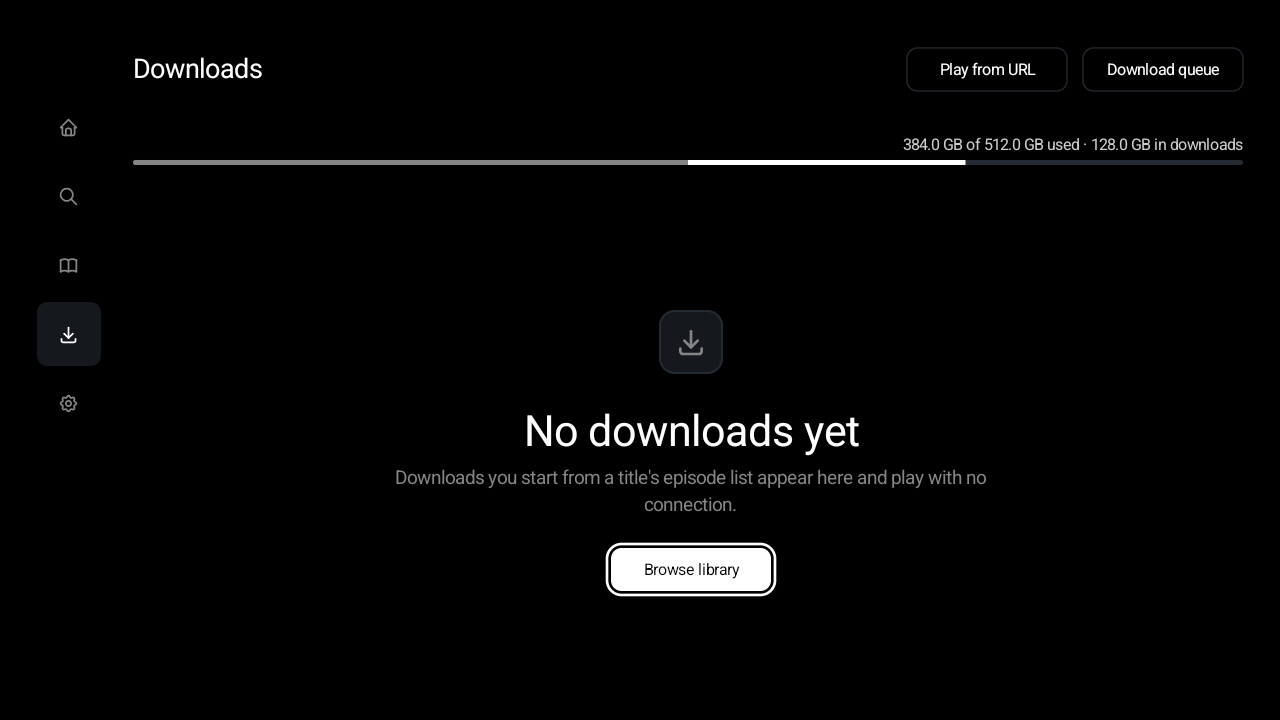
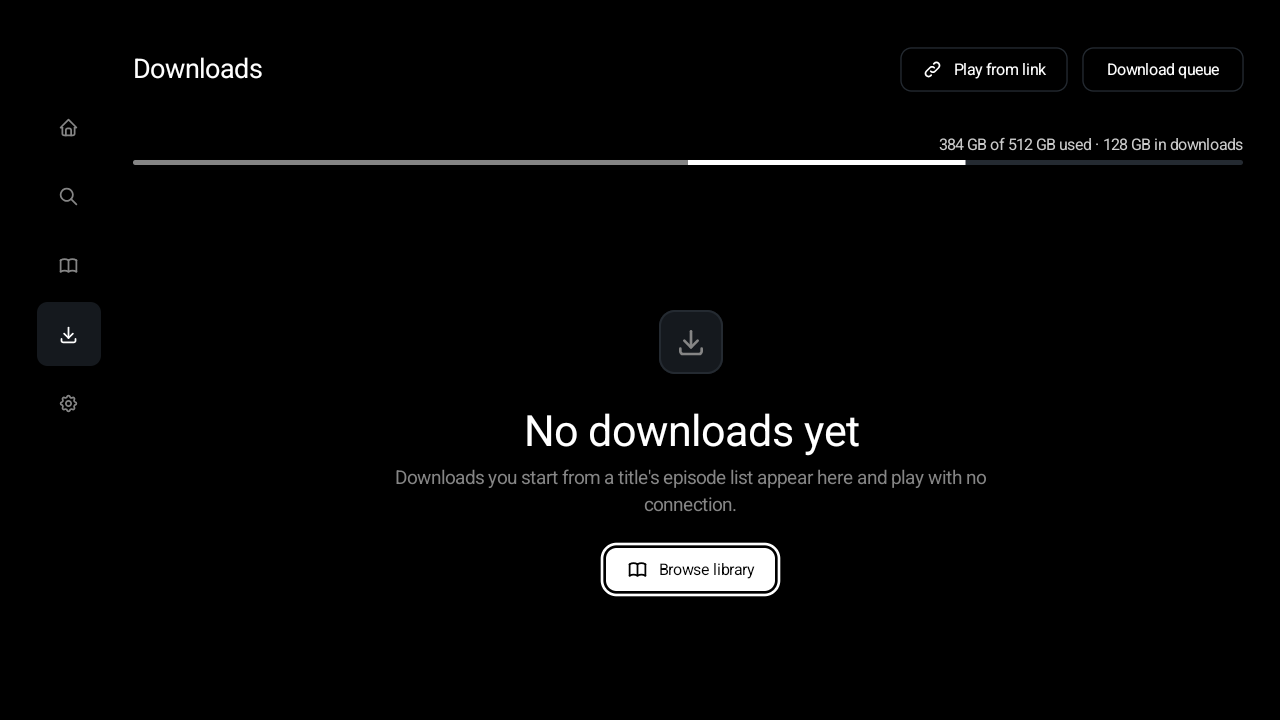
Q14: DS-16's glyphs, and the references re-recorded after design review
Link, Library and Retry on the buttons DS-16's table names; queue and Free up space stay
text. 10 references, each looked at against git, 3 of them new: loading, the failed read
and a scrolled list.

Claude-Session: https://claude.ai/code/session_01NDcBTvDyrDnXVRG39aExwA

Changed region(s): [[0.4688, 0.7639, 0.625, 0.825], [0.6875, 0.1833, 0.875, 0.2139], [0.7188, 0.0917, 0.8125, 0.1222]]

diff --git a/feature/downloads/src/commonMain/kotlin/com/lagradost/cloudstream4/feature/downloads/tv/DownloadsScreenTv.kt b/feature/downloads/src/commonMain/kotlin/com/lagradost/cloudstream4/feature/downloads/tv/DownloadsScreenTv.kt
@@ -275,6 +275,7 @@ private fun DownloadsChromeRow(
             buttonsOnTop -> {
                 GhostTextButton(
                     label = stringResource(Res.string.downloads_play_from_link),
+                    icon = CloudStreamIcons.Link,
                     onClick = { onAction(DownloadsAction.PlayFromUrlRequested) },
                     modifier = Modifier.downloadsStop(focus.playFromUrl, memory),
                 )
@@ -483,6 +484,7 @@ private fun DownloadsBody(
                 body = stringResource(Res.string.downloads_empty_body),
                 action = StateAction(
                     label = stringResource(Res.string.downloads_browse_library),
+                    icon = CloudStreamIcons.Library,
                     onActivate = { onAction(DownloadsAction.LibraryRequested) },
                 ),
             ),
@@ -497,6 +499,7 @@ private fun DownloadsBody(
                 body = stringResource(Res.string.downloads_load_failed_body),
                 action = StateAction(
                     label = stringResource(Res.string.player_source_retry),
+                    icon = CloudStreamIcons.Retry,
                     onActivate = {
                         // Before the button goes with its state. The stop then follows the layout change above.
                         focus.playFromUrl.requestFocusIfAttached()

diff --git a/feature/downloads/src/commonMain/kotlin/com/lagradost/cloudstream4/feature/downloads/tv/DownloadRows.kt b/feature/downloads/src/commonMain/kotlin/com/lagradost/cloudstream4/feature/downloads/tv/DownloadRows.kt
@@ -182,6 +182,7 @@ private fun DownloadTitleRow(
         if (verb != null) {
             GhostTextButton(
                 label = verb,
+                icon = if (title.state == DownloadTitleState.Failed) CloudStreamIcons.Retry else CloudStreamIcons.Play,
                 onClick = {
                     // Before the button goes with the state it answers.
                     rowFocus.requestFocusIfAttached()

diff --git a/docs/tasks/kmp.md b/docs/tasks/kmp.md
@@ -3819,6 +3819,8 @@ one included. **Open local file** was already hidden on TV, so nothing is lost. 
 **Strings:** 12 new keys in all 62 directories and 3 formats with no words in the default one, all machine translated and not reviewed by a native speaker; `qt` uses only words from its own file. `ti`, `ckb`, `mt`, `so`, `or`, `my` and `am` are the least sure, `apc` and `ars` are
 dialect approximations, and `so`'s word for library and storage is the same. Fourteen locales read the legend as `X / Y used` to keep the arguments in order. Twelfth move of the oracle baseline. Reused keys keep the directories they had.
 
+**Glyphs** follow `DS-16`: `Link` on the top row's Play from link, `Library` on Browse library, `Retry` on both Retries, `Play` on Resume. Queue and Free up space stay text-only, as its table says, and a `Chip` has no glyph, so the band's chips have none.
+
 **Loading** shows six skeleton rows at the row's geometry with an undivided meter. The board has the meter running on its own, but the source answers with both at once, so the storage figures do not arrive first.
 
 **Published API:** `app/api/classes-jar.api` +127 lines, 0 removed: 15 `R$string` fields and the new `cloudstream4.download` classes.
@@ -3840,6 +3842,8 @@ Temporary changes, all reverted. One run on `:feature:downloads`, 13 of 32 red, 
 Screenshots are 1280x720, recorded on `Television_720p`. With `Television_720p_2`, the cases the changes did not touch compared 0 pixels different.
 
 **Re-recorded once, after `DS-14` merged.** All 7 went red against the merged design system, by 3,950 to 7,898 pixels, and no other test did. Each new image was looked at, and the diffs looked at for two: the changes are `DS-14` items 4 (`ListRow` subtitle and `StateView` body to `muted`) and 5 (`Chip` to `raised` with a hairline and a `muted` label). Layout, focus rings, `Retry`, the failure marker, the meter and the banner did not move. `git status` showed those 7 PNGs and nothing else.
+
+**Re-recorded a second time, after design review and `DS-15`/`DS-16` merged,** with 3 new cases: loading, the failed read, and a scrolled list. Each of the 10 was looked at against the reference in git before it was kept. The changes: the failed word in `ink2`, the separators, `Play from link`, glyphs on Retry, Play from link and Browse library, `DS-15`'s selection marker, and no scroll on rows that fit. **The scrolled case caught a bug in the first try at whole-row scrolling:** Compose asks the scroll spec again on every step of the animation and takes the answer as what is left, so a distance rounded up to a whole row answered 0 as soon as the row fitted, and the list stopped 20 px short with a row's foot against the chips. The spec now names a fixed line, and a JVM test asks it again part way, as Compose does.
 
 ### Not verified
 
